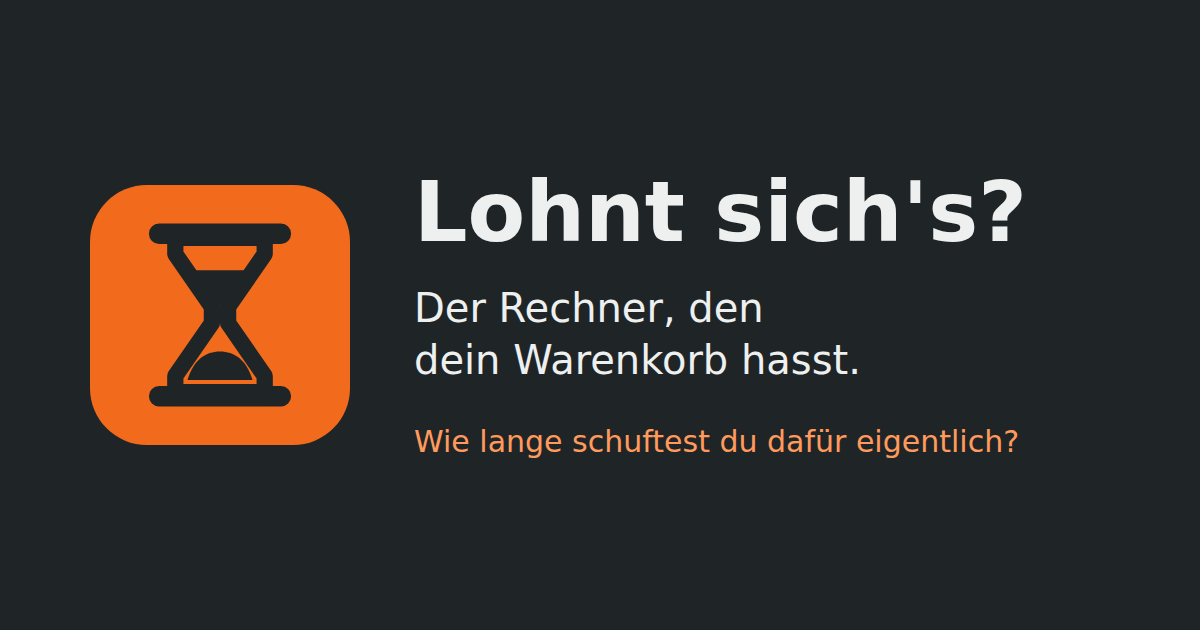
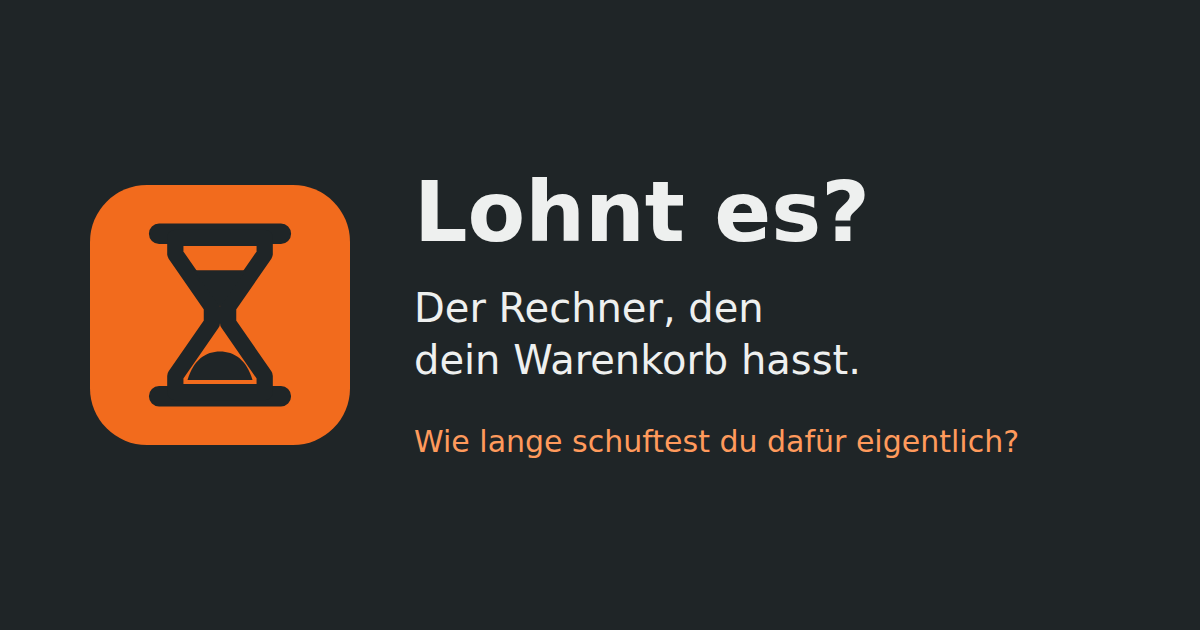
App heißt jetzt "Lohnt es?" (passend zur Domain lohnt.es) (#26)
Titel im Textkatalog, Browser-Tab, Manifest, Link-Vorschau und
Vorschaubild, README und CLAUDE.md angepasst. Version 0.4.2.

Claude-Session: https://claude.ai/code/session_01RqCRaet3DZHhBZSLSvmwxu

Changed region(s): [[0.5858, 0.2714, 0.8633, 0.3921]]

diff --git a/src/i18n/de.ts b/src/i18n/de.ts
@@ -8,13 +8,13 @@ export const de = {
 
   app: {
     /** Also in the <title> of index.html, keep both in sync. */
-    title: "Lohnt sich's?",
+    title: "Lohnt es?",
     tagline: "Der Rechner, den dein Warenkorb hasst.",
     /** Search engines and link previews (WhatsApp, Signal, …). */
     description: "Rechnet Einkäufe in deine Arbeitszeit um. Frech, ehrlich und nur lokal in deinem Browser.",
     /** Small line in the link preview image. */
     previewSubline: "Wie lange schuftest du dafür eigentlich?",
-    previewAlt: "Sanduhr-Symbol mit dem Schriftzug „Lohnt sich's? Der Rechner, den dein Warenkorb hasst.“",
+    previewAlt: "Sanduhr-Symbol mit dem Schriftzug „Lohnt es? Der Rechner, den dein Warenkorb hasst.“",
     navLabel: "Bereiche",
     navCalculator: "Rechner",
     navSettings: "Einstellungen",

diff --git a/index.html b/index.html
@@ -6,7 +6,7 @@
     <meta name="color-scheme" content="light dark" />
     <meta name="theme-color" content="#f26b1d" />
     <link rel="icon" type="image/svg+xml" href="/favicon.svg" />
-    <title>Lohnt sich's? – Der Rechner, den dein Warenkorb hasst</title>
+    <title>Lohnt es? – Der Rechner, den dein Warenkorb hasst</title>
     <script>
       // Apply a saved manual theme before first paint to avoid a flash of the wrong theme.
       try {

diff --git a/scripts/pwa-plugin.ts b/scripts/pwa-plugin.ts
@@ -18,7 +18,7 @@ const THEME = "#f26b1d";
 export function pwa(options: { version: string; commit: string }): Plugin {
   let outDir = "dist";
   return {
-    name: "lohnt-sich-pwa",
+    name: "lohnt-es-pwa",
     apply: "build",
     configResolved(config) {
       outDir = config.build.outDir;

diff --git a/CLAUDE.md b/CLAUDE.md
@@ -1,6 +1,6 @@
-# Lohnt sich's? (Repository: is-it-worth-it)
+# Lohnt es? (Repository: is-it-worth-it)
 
-Name der App: „Lohnt sich's?“, Untertitel: „Der Rechner, den dein Warenkorb hasst.“ (früher „Is it worth it?“).
+Name der App: „Lohnt es?“, Untertitel: „Der Rechner, den dein Warenkorb hasst.“ (früher „Is it worth it?“, dann „Lohnt sich's?“). Geplante Domain: `lohnt.es` (Name und Domain-Endung bilden zusammen den Titel).
 
 Web-Applikation, mit der man Einkäufe in Arbeitszeit verrechnen kann.
 Beispiel: Nutzer gibt 600 € ein, die App zeigt "Das entspricht ca. 4 Arbeitstagen" bzw. "32 Arbeitsstunden".

diff --git a/README.md b/README.md
@@ -1,6 +1,6 @@
-# Lohnt sich's?
+# Lohnt es?
 
-*Der Rechner, den dein Warenkorb hasst.* (Früher „Is it worth it?“; Repository und URL heißen weiterhin `is-it-worth-it`.)
+*Der Rechner, den dein Warenkorb hasst.* (Früher „Is it worth it?“, dann „Lohnt sich's?“; Repository und URL heißen weiterhin `is-it-worth-it`.)
 
 Eine kleine Web-App, die Einkäufe in Arbeitszeit umrechnet. Beispiel: Bei 600 € zeigt sie, wie viele Arbeitsstunden bzw. Arbeitstage das nach Abzug von Urlaub und Feiertagen ungefähr entspricht.
 
